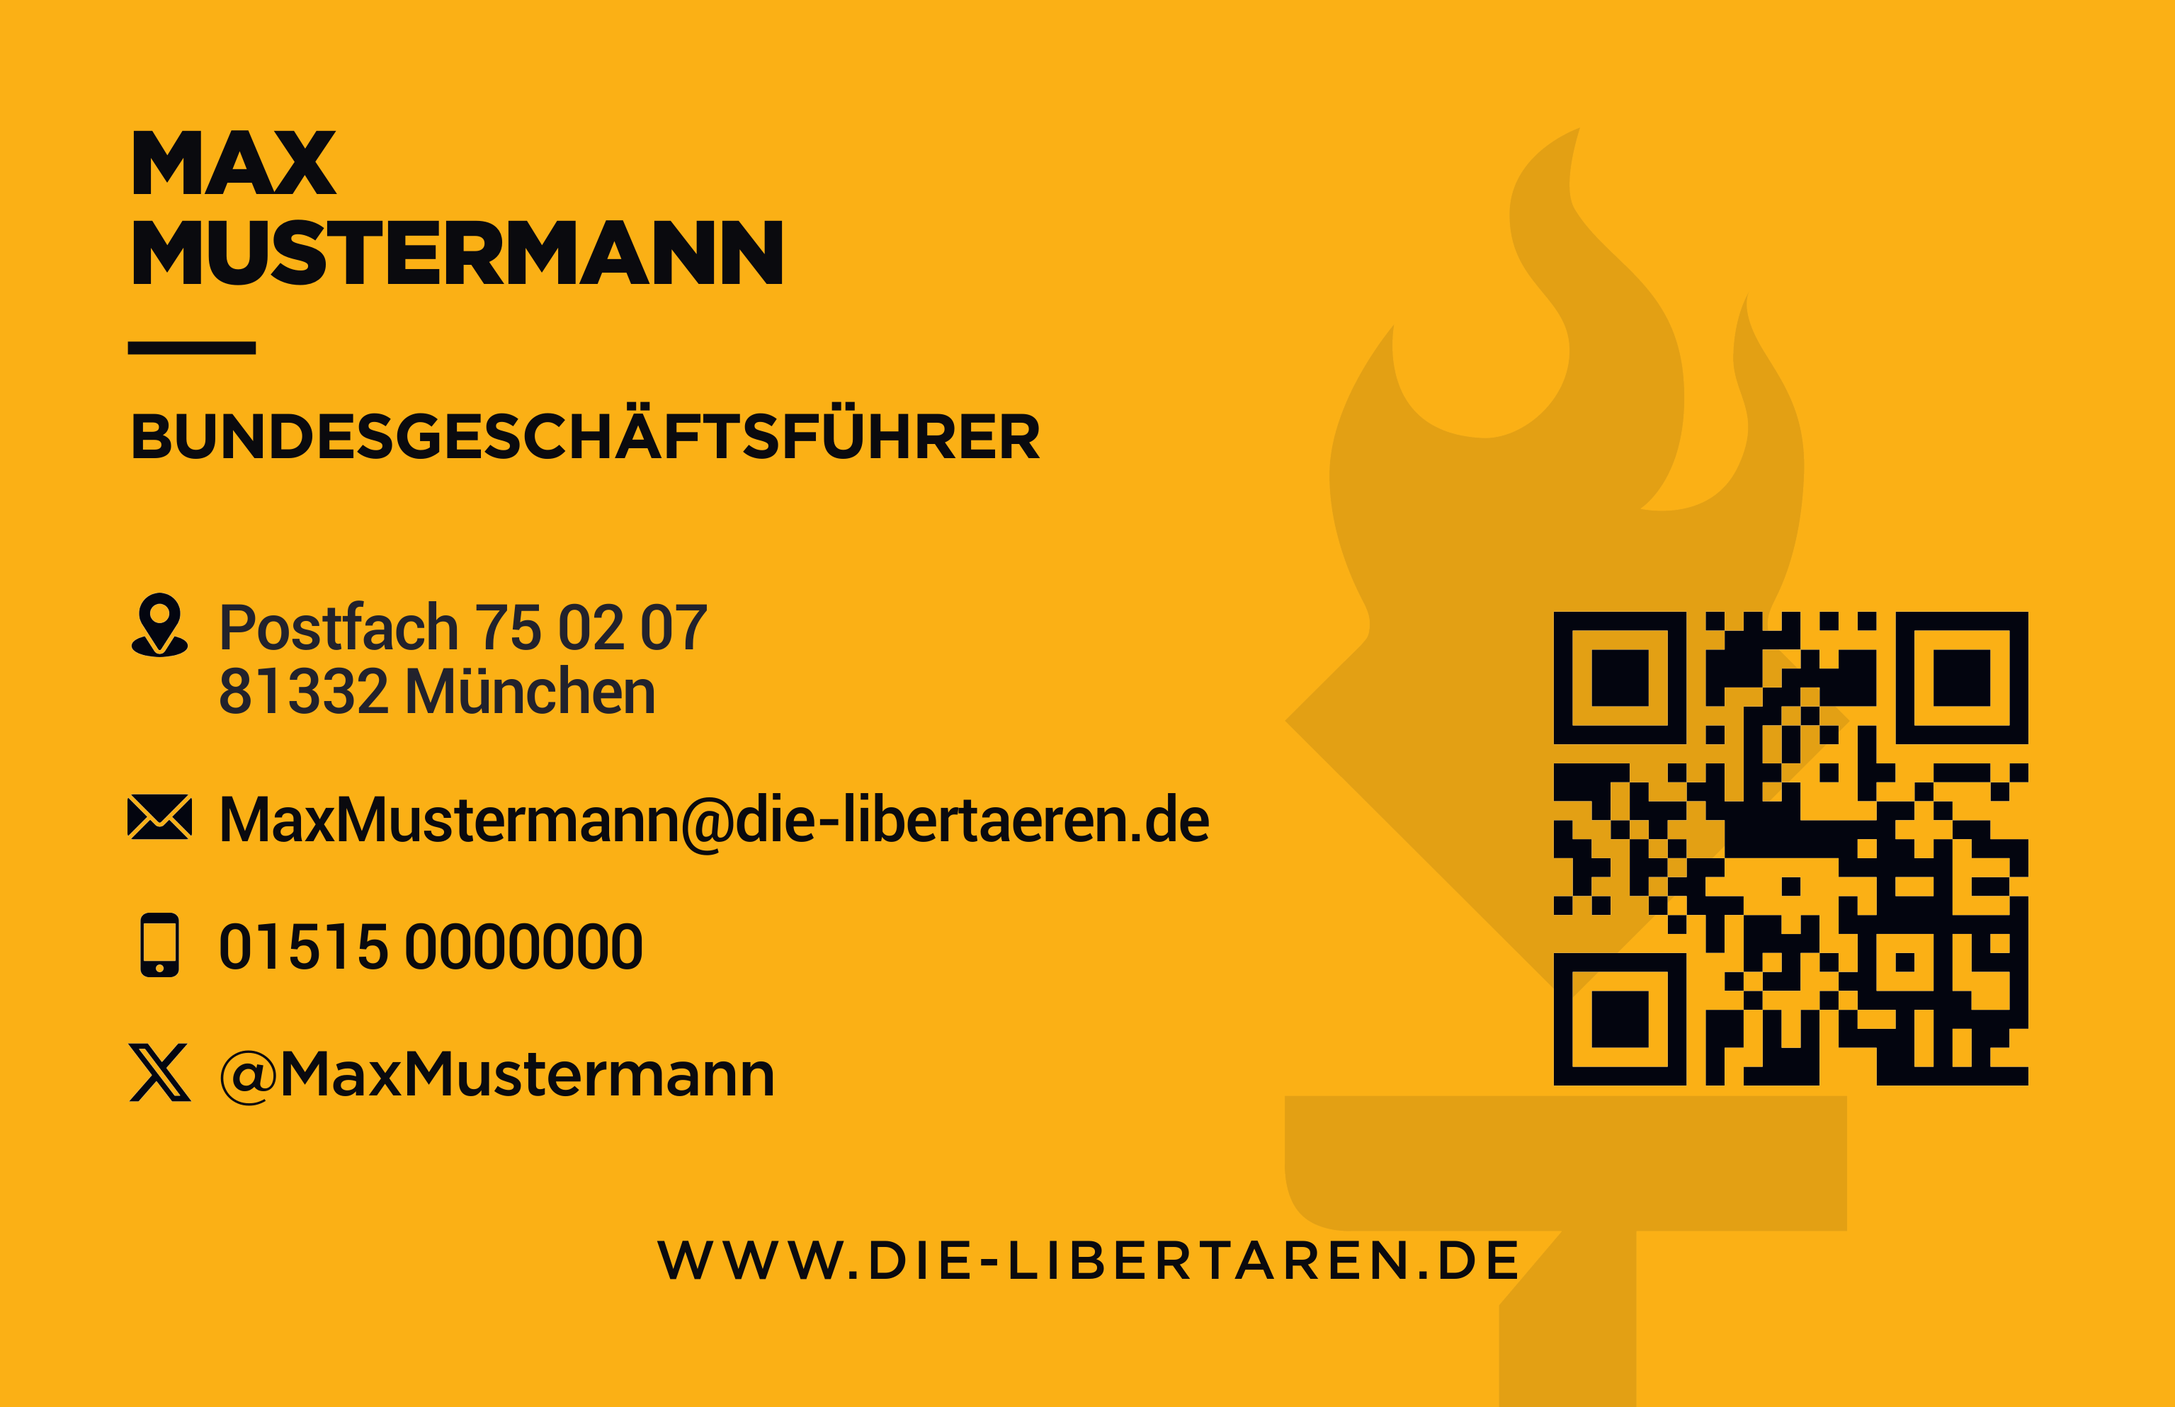
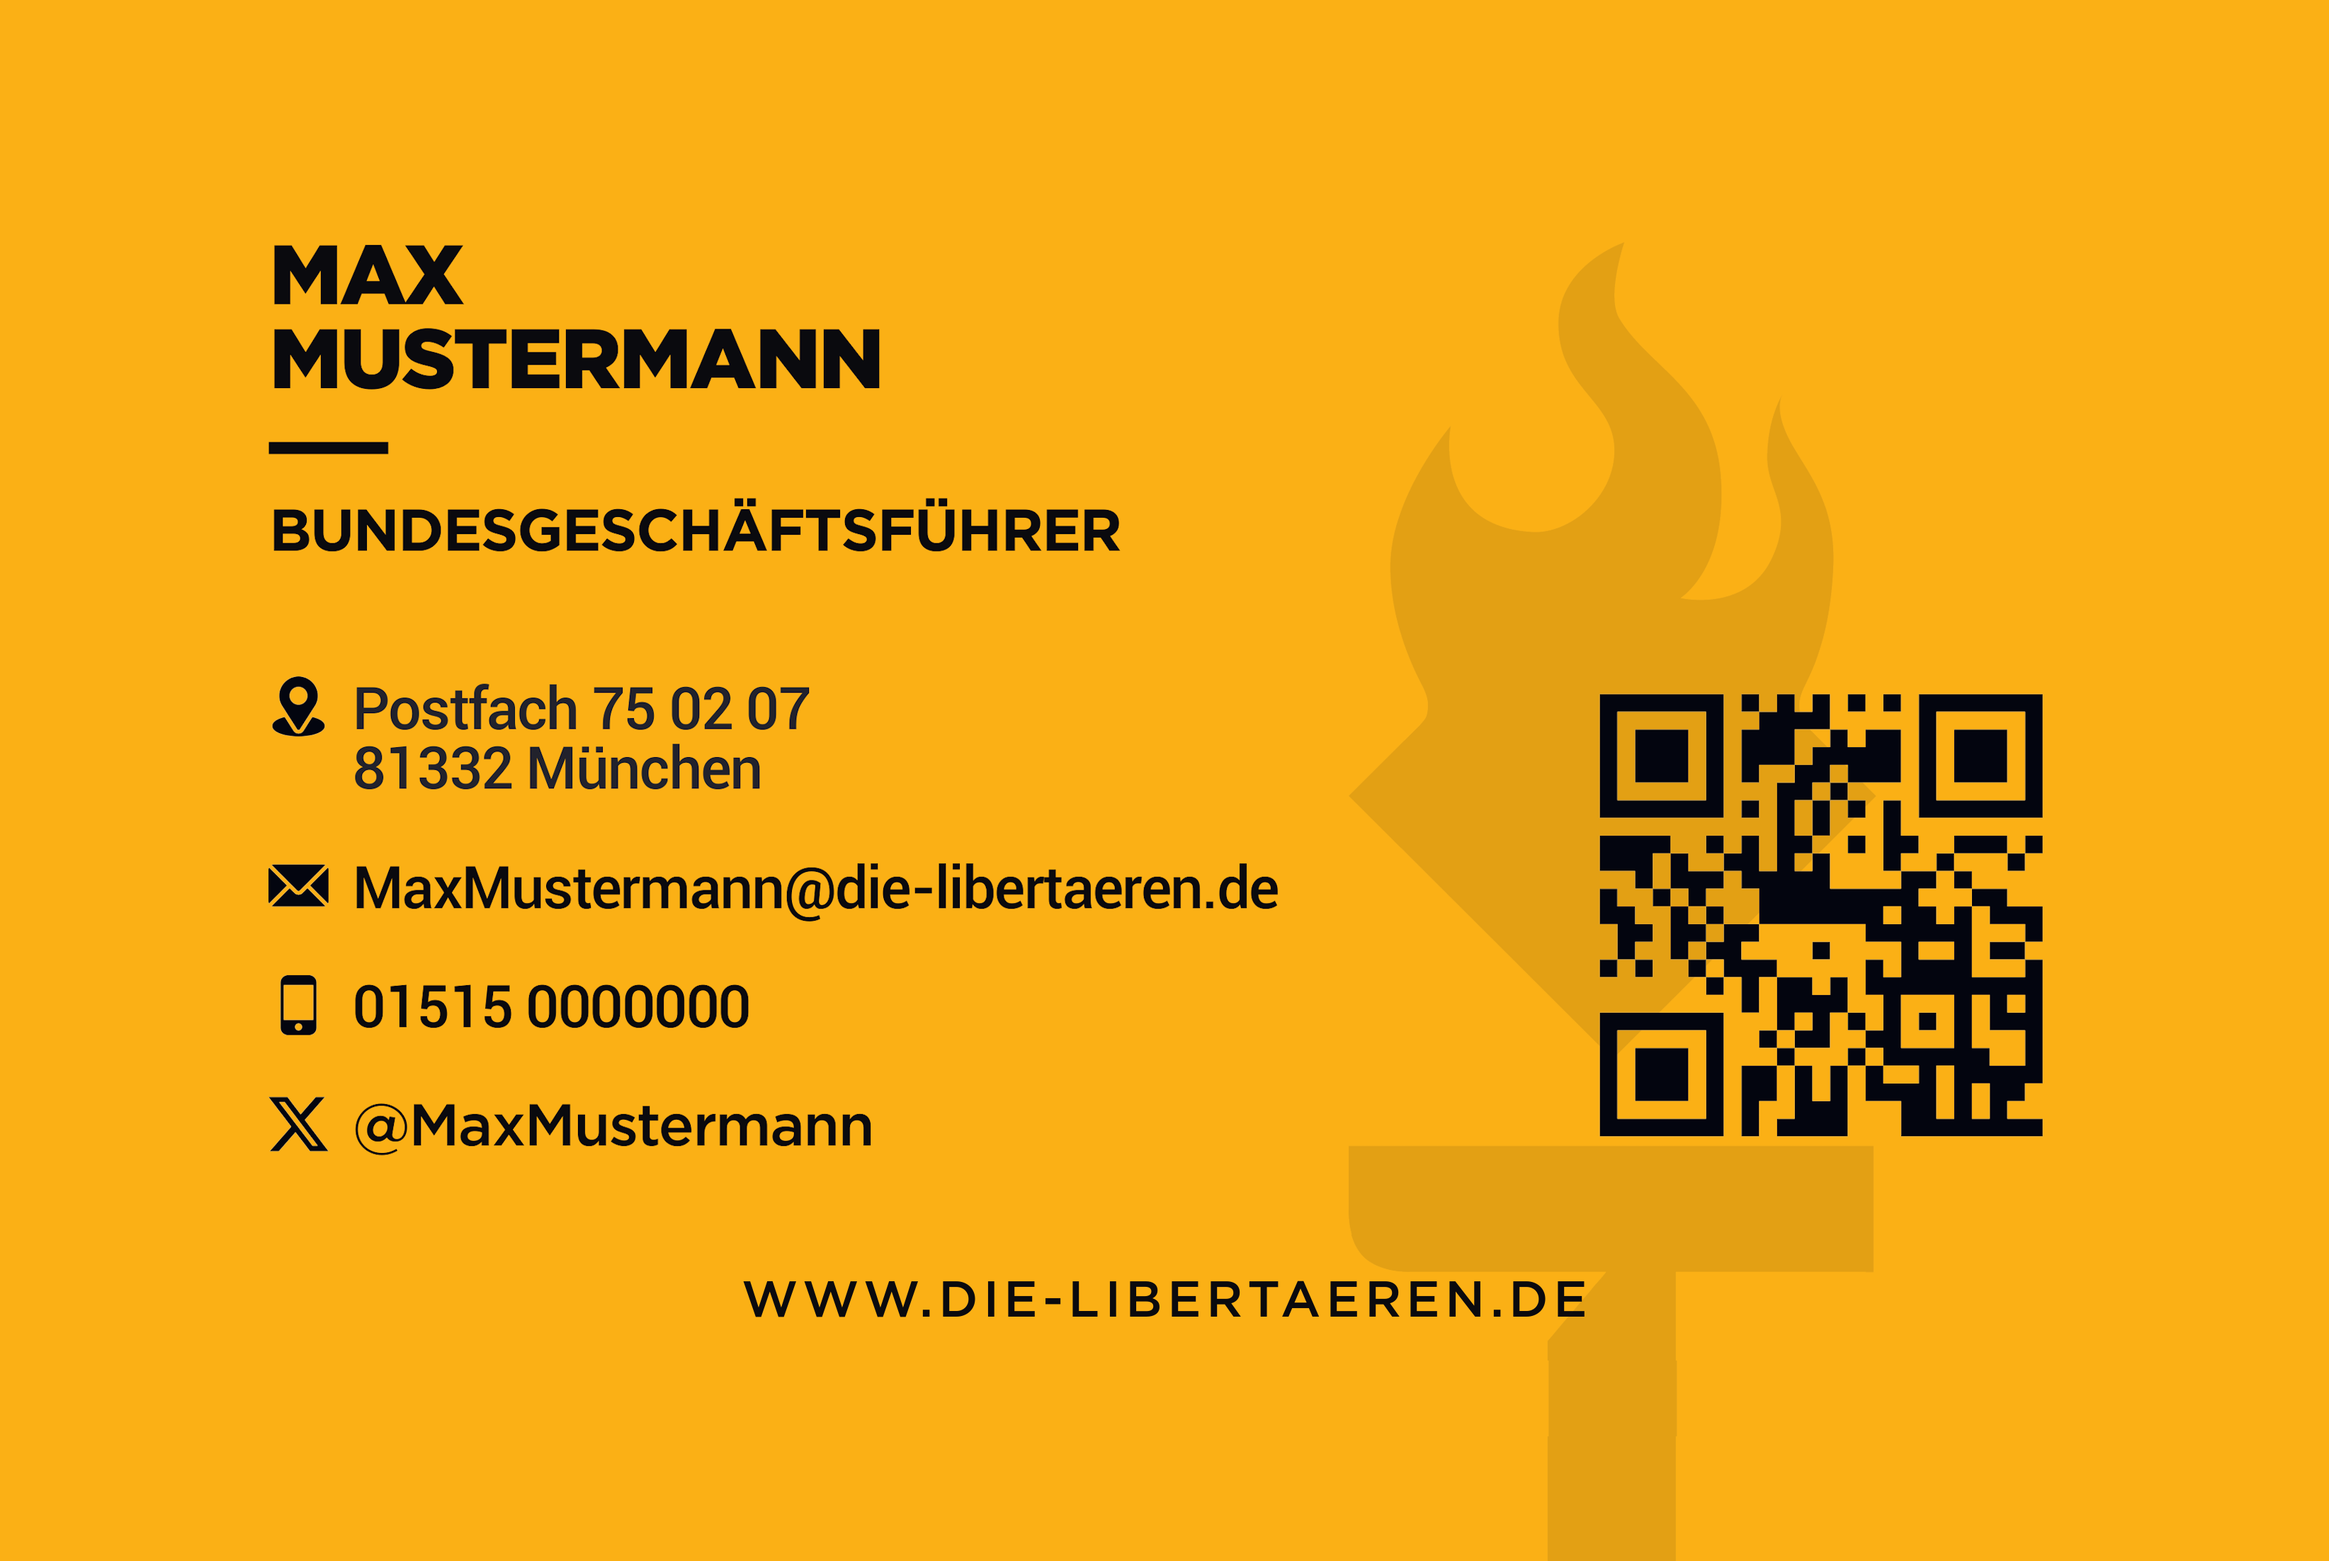
fix text positioning

diff --git a/index.html b/index.html
@@ -77,10 +77,12 @@
     document.getElementById("gen-pdf").addEventListener('click', async function() {
         var vorname   = document.getElementsByName('vorname')[0].value || "Max"
         var nachname  = document.getElementsByName('nachname')[0].value || "Mustermann"
-        var rolle     = document.getElementsByName('rolle')[0].value || ""
+        var rolle     = document.getElementsByName('rolle')[0].value || "Bundesgeschäftsführer"
         var adresse_1 = document.getElementsByName('adresse-1')[0].value || "Postfach 75 02 07"
         var adresse_2 = document.getElementsByName('adresse-2')[0].value || "81332 München"
-        var email     = document.getElementsByName('email')[0].value || "MaxMustermann@die-libertaeren.de"
+        var email     = document.getElementsByName('email')[0].value || (
+            `${vorname.toLowerCase()}.${nachname.toLowerCase()}@die-libertaeren.de`
+        );
         var telefon   = document.getElementsByName('telefon')[0].value || "01515 000000"
         var x_profil  = document.getElementsByName('x-profil')[0].value || "@MaxMustermann"
 
@@ -138,36 +140,36 @@
         }
 
         const renderTitle = textRenderer(back, {
-            size: 11.5,
-            font: gothamBoldFont,
-            color: rgb(0.0, 0.0, 0.0),
-            letterSpacing: -0.5,
-        })
-
-        renderTitle(vorname, 29.5, 139)
-        renderTitle(nachname, 29.5, 128)
-
-        const renderRole = textRenderer(back, {
             size: 9.5,
             font: gothamBoldFont,
             color: rgb(0.0, 0.0, 0.0),
-            letterSpacing: -0.3,
+            letterSpacing: -0.4,
         })
 
-        renderRole(rolle, 29.5, 110)
+        renderTitle(vorname, 30.0, 139)
+        renderTitle(nachname, 30.0, 130)
+
+        const renderRole = textRenderer(back, {
+            size: 7.0,
+            font: gothamBoldFont,
+            color: rgb(0.0, 0.0, 0.0),
+            letterSpacing: -0.25,
+        })
+
+        renderRole(rolle, 30.0, 112)
 
         const renderInfo = textRenderer(back, {
-            size: 7.5,
+            size: 7.0,
             font: robotoBoldFont,
             color: rgb(0.0, 0.0, 0.0),
             letterSpacing: -0.10,
         })
 
-        renderInfo(adresse_1, 42.0, 95 - 2)
-        renderInfo(adresse_2, 42.0, 95 - 9.2)
-        renderInfo(email    , 42.0, 95 - 22.8)
-        renderInfo(telefon  , 42.0, 95 - 36.2)
-        renderInfo(x_profil , 42.0, 95 - 48.8)
+        renderInfo(adresse_1, 40.0, 95 - 3)
+        renderInfo(adresse_2, 40.0, 95 - 10.2)
+        renderInfo(email    , 40.0, 95 - 22.8)
+        renderInfo(telefon  , 40.0, 95 - 36.2)
+        renderInfo(x_profil , 40.0, 95 - 48.8)
 
         var short_name = (vorname.slice(0, 1) + nachname.slice(0, 3)).toLowerCase()
         var date = new Date().toISOString().replaceAll("-", "").replaceAll(":", "").slice(0, 15)
